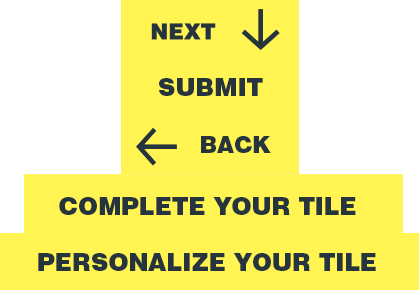
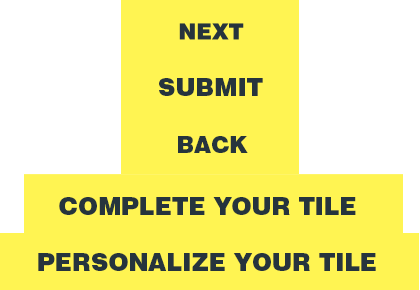
removing arrows from next and back buttons and added error if donation is less than 25

Changed region(s): [[0.3405, 0.031, 0.681, 0.1862], [0.3095, 0.4345, 0.65, 0.5897]]

diff --git a/wp-content/themes/spectrum-parallax-blog/scripts/nya.js b/wp-content/themes/spectrum-parallax-blog/scripts/nya.js
@@ -369,25 +369,39 @@ $j(document).ready(function() {
 	function checkOnUserKeyInput() {
 		var userInput = Number($userOtherDonation.val());
 
-		if (regExpNumbers.test(userInput) && userInput >= 25) {			
+		if (regExpNumbers.test(userInput) && userInput >= 25) {		
+			$donationBody.find(".donation-content.other").removeClass("light-red-selected-donation");
+			$donationBody.find(".donation-amount.other").removeClass("dark-red-selected-donation");
+				
 			if(userInput >= 25 && userInput < 100) {						
 				$donationBody.find(".donation-content.other .donation-reference").text("Friend");	
-				$donationBody.find(".donation-content.other .donation-info-other").text($donationBody.find(".donation-content.twenty-five .donation-info").text());
+				$donationBody.find(".donation-content.other .donation-info-other").removeClass("supporter-donation-padding-top");
+				$donationBody.find(".donation-content.other .donation-info-other").removeClass("transformer-donation-padding-top");
+				$donationBody.find(".donation-content.other .donation-info-other").text($donationBody.find(".donation-content.twenty-five .donation-info").text()).addClass("friend-donation-padding-top");
 			} else if (userInput >= 100 && userInput < 250) {
 				$donationBody.find(".donation-content.other .donation-reference").text("Supporter");
-				$donationBody.find(".donation-content.other .donation-info-other").text($donationBody.find(".donation-content.one-fifty .donation-info").text());
+				$donationBody.find(".donation-content.other .donation-info-other").removeClass("friend-donation-padding-top");
+				$donationBody.find(".donation-content.other .donation-info-other").removeClass("transformer-donation-padding-top");
+				$donationBody.find(".donation-content.other .donation-info-other").text($donationBody.find(".donation-content.one-fifty .donation-info").text()).addClass("supporter-donation-padding-top");
 			} else if (userInput >= 250){
 				$donationBody.find(".donation-content.other .donation-reference").text("Transformer");	
-				$donationBody.find(".donation-content.other .donation-info-other").text($donationBody.find(".donation-content.two-fifty .donation-info").text());
+				$donationBody.find(".donation-content.other .donation-info-other").removeClass("friend-donation-padding-top");
+				$donationBody.find(".donation-content.other .donation-info-other").removeClass("supporter-donation-padding-top");
+				$donationBody.find(".donation-content.other .donation-info-other").text($donationBody.find(".donation-content.two-fifty .donation-info").text()).addClass("transformer-donation-padding-top");
 			} else {
 				$donationBody.find(".donation-content.other .donation-reference").text("");	
 				$donationBody.find(".donation-content.other .donation-info-other").text("");
 			}
-		} 
+		} else {
+			$donationBody.find(".donation-content.other").addClass("light-red-selected-donation");
+			$donationBody.find(".donation-amount.other").addClass("dark-red-selected-donation");			
+		}
 		
 		if ($userOtherDonation.val() == "") {
 			$donationBody.find(".donation-content.other .donation-reference").text("");	
 			$donationBody.find(".donation-content.other .donation-info-other").text("");
+			$donationBody.find(".donation-content.other").removeClass("light-red-selected-donation");
+			$donationBody.find(".donation-amount.other").removeClass("dark-red-selected-donation");
 		}
 	}
 	// Step 1: user selects a donation amount or enter one that is > $25

diff --git a/wp-content/themes/spectrum-parallax-blog/css/nya.css b/wp-content/themes/spectrum-parallax-blog/css/nya.css
@@ -10,6 +10,9 @@ body { background: #eeefe9 !important; }
 /* page overlay */
 #page-overlay { background: #000; display: none; height: 10800px; left: 0; opacity: 0.5; position: absolute; top: 0; width: 100%; z-index: 10000; }
 .error-input { border: 1px solid red; }
+#donation-body .donation-info-other.friend-donation-padding-top { padding-top: 22px; }
+#donation-body .donation-info-other.supporter-donation-padding-top { padding-top: 18px; }
+#donation-body .donation-info-other.transformer-donation-padding-top { padding-top: 12px; }
 /* Removing section headers */
 .blockText { background: transparent !important; }
 .blockText h1, .blockText .meta, .blockText .postmetadata { display: none; }
